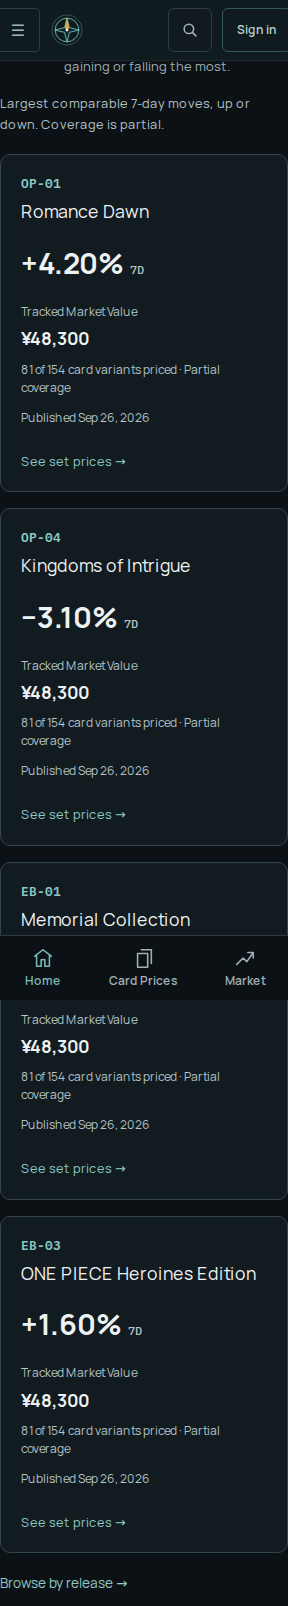
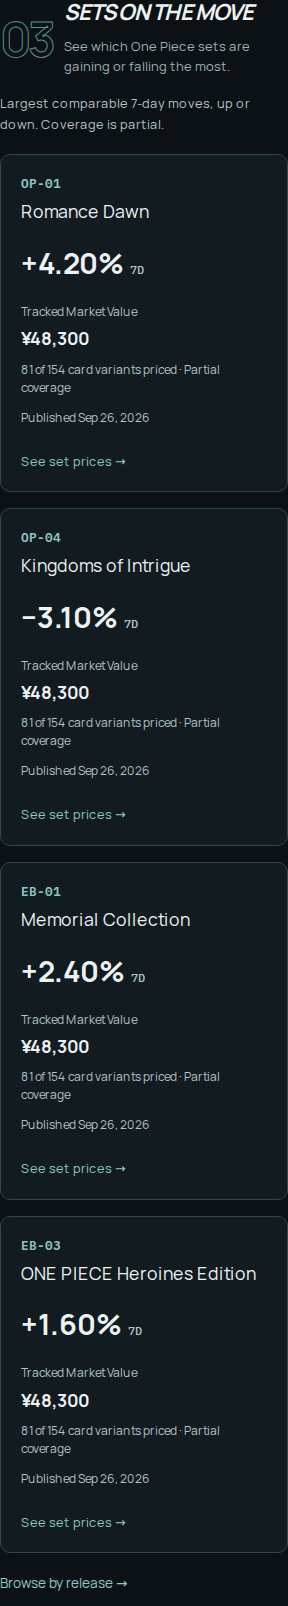
docs: capture set movement without sticky navigation overlap

diff --git a/docs/reports/collector-public-context-2026-10-01.md b/docs/reports/collector-public-context-2026-10-01.md
@@ -40,7 +40,7 @@ Only approved public artwork origins are fetched, with exact-origin matching, no
 
 ### Validation and review screenshots
 
-**Evidence boundary:** these are screenshots of the production build against local public-response fixtures and saved canonical One Piece artwork, not current hosted prices. They verify dynamic field binding and layout without production access or live scraping. Exact-card fixtures use ¥12,670 / ¥1,450 / ¥870; release fixtures include gains and falls; 30D is unavailable. Renderer-added sample-data labels are absent in production. The original SAMPLE watermarks embedded in official artwork are deliberately retained.
+**Evidence boundary:** these are screenshots of the production build against local public-response fixtures and saved canonical One Piece artwork, not current hosted prices. They verify dynamic field binding and layout without production access or live scraping. Exact-card fixtures use ¥12,670 / ¥1,450 / ¥870; release fixtures include gains and falls; 30D is unavailable. Renderer-added sample-data labels are absent in production. The original SAMPLE watermarks embedded in official artwork are deliberately retained. Focused Sets screenshots hide fixed page navigation only during capture so it does not obscure the section; full-page screenshots retain the normal navigation.
 
 | Surface | Desktop | Mobile | Narrow mobile |
 | --- | --- | --- | --- |
